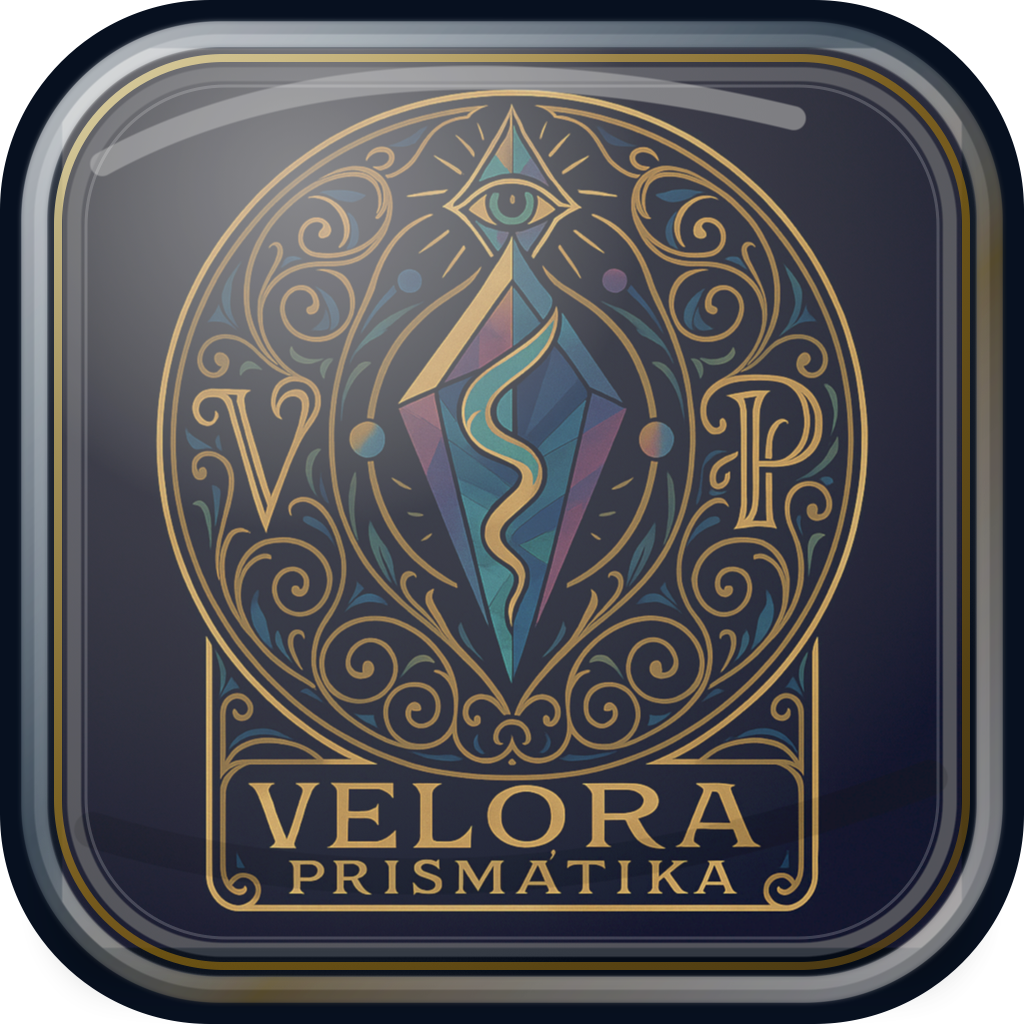
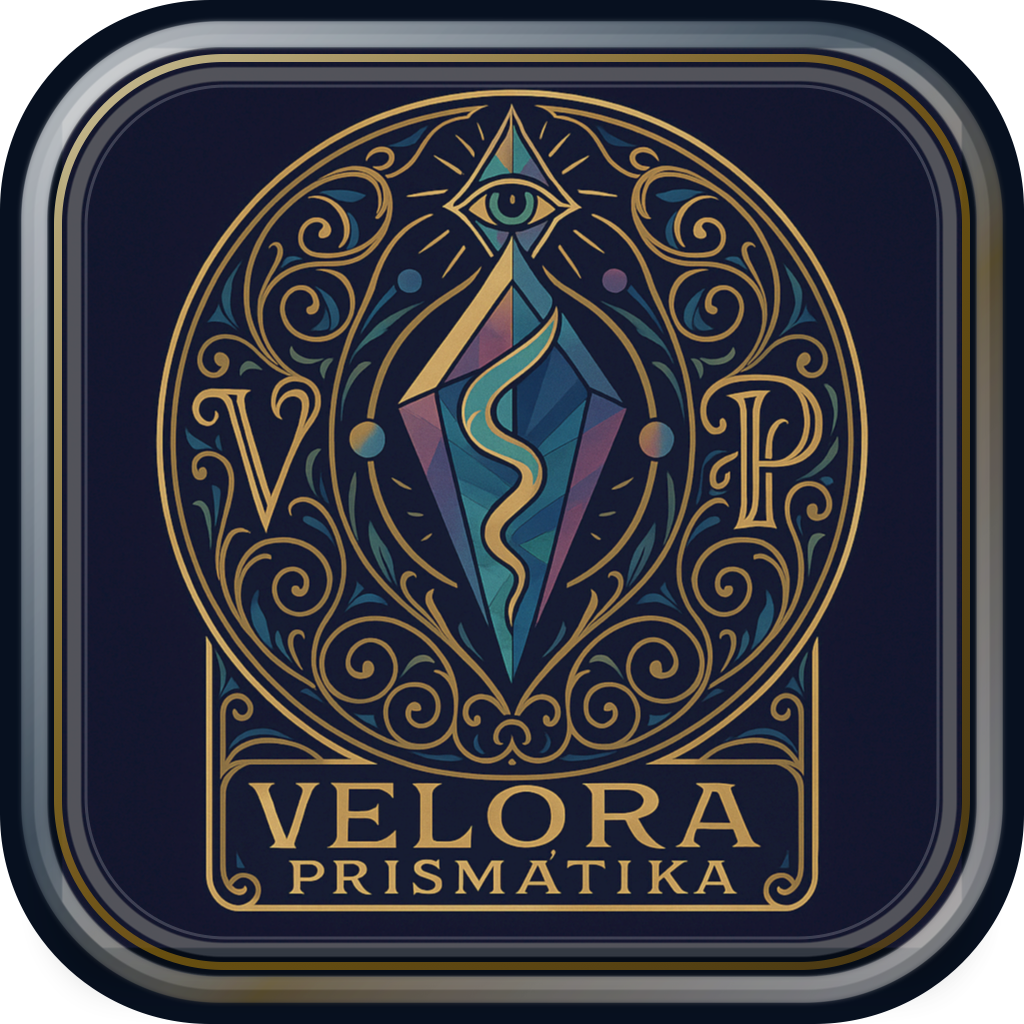
Numerología primera en el menú y nombre persistente en Cábala
- Numerología movida al primer puesto del menú izquierdo
  (es el servicio más simple y pide nombre + fecha primero)
- KabbalahService precarga el nombre guardado del usuario
- KabbalahService guarda el nombre en localStorage al calcular
- Así el usuario introduce sus datos una sola vez:
  Numerología → nombre y fecha, Astrología → fecha,
  Rituales → fecha, Cábala → nombre

diff --git a/frontend/src/components/KabbalahService.jsx b/frontend/src/components/KabbalahService.jsx
@@ -22,9 +22,9 @@ const PATHS = [
   [7,8], [7,9], [7,10], [8,9], [8,10], [9,10]
 ];
 
-const KabbalahService = ({ onServiceResult }) => {
+const KabbalahService = ({ onServiceResult, userData, onSaveUserData }) => {
   const [selectedNode, setSelectedNode] = useState(null);
-  const [inputName, setInputName] = useState("");
+  const [inputName, setInputName] = useState(userData?.name || "");
   const [loading, setLoading] = useState(false);
   const [gematriaResult, setGematriaResult] = useState(null);
   const [veloraMessage, setVeloraMessage] = useState(null); // Nuevo estado para IA
@@ -57,6 +57,9 @@ const KabbalahService = ({ onServiceResult }) => {
   // 2. CÁLCULO GEMATRÍA (CONECTADO AL BACKEND)
   const calculateGematria = async () => {
     if (!inputName.trim()) return;
+    if (inputName !== userData?.name) {
+      onSaveUserData?.({ name: inputName });
+    }
     setLoading(true);
     setVeloraMessage(null);
     setSelectedNode(null);

diff --git a/frontend/src/App.jsx b/frontend/src/App.jsx
@@ -38,8 +38,8 @@ const ICONS = {
 };
 
 const SERVICES_LEFT  = [
-  "Astrología Natal",
   "Numerología",
+  "Astrología Natal",
   "Fases Lunares",
   "Compatibilidad",
   "Rituales",
@@ -364,7 +364,7 @@ export default function App() {
         />
       )}
       {selectedService === 'Runas'            && <RunesService onServiceResult={serviceContextPublishers.runes} />}
-      {selectedService === 'Cábala'           && <KabbalahService onServiceResult={serviceContextPublishers.kabbalah} />}
+      {selectedService === 'Cábala'           && <KabbalahService onServiceResult={serviceContextPublishers.kabbalah} userData={userData} onSaveUserData={saveUserData} />}
       {selectedService === 'Tránsitos'        && <TransitsService onServiceResult={serviceContextPublishers.transits} />}
       {selectedService === 'Bola de Cristal'  && <CrystalBallService onServiceResult={serviceContextPublishers.crystal} />}
       {selectedService === 'Lectura de Mano'  && <PalmistryService onServiceResult={serviceContextPublishers.palmistry} />}

diff --git a/scripts/create_macos_launcher.py b/scripts/create_macos_launcher.py
@@ -70,11 +70,6 @@ def build_svg() -> None:
     <clipPath id="roundedIcon">
       <rect x="34" y="34" width="956" height="956" rx="186" ry="186"/>
     </clipPath>
-    <radialGradient id="glassGlow" cx="28%" cy="16%" r="86%">
-      <stop offset="0%" stop-color="#ffffff" stop-opacity="0.24"/>
-      <stop offset="42%" stop-color="#ffffff" stop-opacity="0.04"/>
-      <stop offset="100%" stop-color="#ffffff" stop-opacity="0"/>
-    </radialGradient>
     <linearGradient id="edgeGlass" x1="0%" y1="0%" x2="100%" y2="100%">
       <stop offset="0%" stop-color="#ffffff" stop-opacity="0.48"/>
       <stop offset="42%" stop-color="#d9f4ff" stop-opacity="0.14"/>
@@ -99,11 +94,8 @@ def build_svg() -> None:
   <g filter="url(#softShadow)">
     <g clip-path="url(#roundedIcon)">
       <image href="data:image/png;base64,{image_data}" x="62" y="48" width="900" height="900" preserveAspectRatio="xMidYMid meet"/>
-      <rect x="34" y="34" width="956" height="956" rx="186" fill="url(#glassGlow)"/>
       <rect x="34" y="34" width="956" height="956" rx="186" fill="none" stroke="#ffffff" stroke-opacity="0.11" stroke-width="28"/>
       <rect x="74" y="74" width="876" height="876" rx="150" fill="none" stroke="#ffffff" stroke-opacity="0.08" stroke-width="14"/>
-      <path d="M102 164c178-98 418-112 692-46" fill="none" stroke="#ffffff" stroke-opacity="0.18" stroke-width="24" stroke-linecap="round"/>
-      <path d="M92 830c232 70 520 68 838-52" fill="none" stroke="#000000" stroke-opacity="0.22" stroke-width="36" stroke-linecap="round"/>
     </g>
   </g>
   <rect x="34" y="34" width="956" height="956" rx="186" fill="none" stroke="url(#edgeGlass)" stroke-width="26" filter="url(#innerGlass)"/>
@@ -155,8 +147,8 @@ def write_app_bundle() -> None:
         "CFBundleInfoDictionaryVersion": "6.0",
         "CFBundleName": "Velora Prismätika",
         "CFBundlePackageType": "APPL",
-        "CFBundleShortVersionString": "1.0",
-        "CFBundleVersion": "1",
+        "CFBundleShortVersionString": "1.0.1",
+        "CFBundleVersion": "2",
         "LSMinimumSystemVersion": "12.0",
         "NSHighResolutionCapable": True,
     }
@@ -183,21 +175,18 @@ osascript -e 'display notification "Arrancando Ollama, modelo y Velora…" with 
 def main() -> None:
     ensure_tools()
 
-    if not PNG_1024.exists():
-        if not SOURCE_COLOR.exists():
-            raise FileNotFoundError(
-                f"No existe la imagen base: {SOURCE_COLOR}\n"
-                f"Define VELORA_ICON_SOURCE con la ruta a un PNG cuadrado de al menos 1024px."
-            )
+    try:
         build_svg()
-        render_png()
-    else:
-        print(f"✓ Icono PNG ya existe: {PNG_1024}")
+    except (FileNotFoundError, PermissionError) as exc:
+        if not SVG_PATH.exists():
+            raise RuntimeError(
+                f"No puedo reconstruir el icono porque no puedo leer la imagen base: {SOURCE_COLOR}\n"
+                f"Define VELORA_ICON_SOURCE con una imagen accesible."
+            ) from exc
+        print(f"⚠️  No puedo leer la imagen base, reutilizo el SVG existente: {SVG_PATH}")
 
-    if not ICNS_PATH.exists():
-        build_icns()
-    else:
-        print(f"✓ Icono ICNS ya existe: {ICNS_PATH}")
+    render_png()
+    build_icns()
 
     write_app_bundle()
     print(f"App creada: {APP_DIR}")